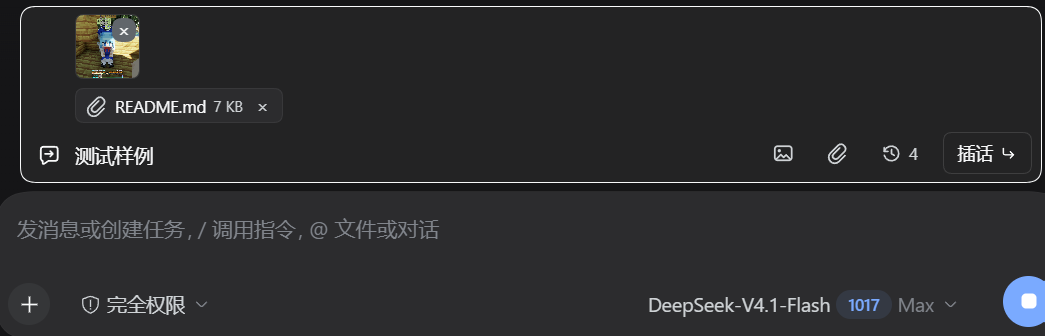
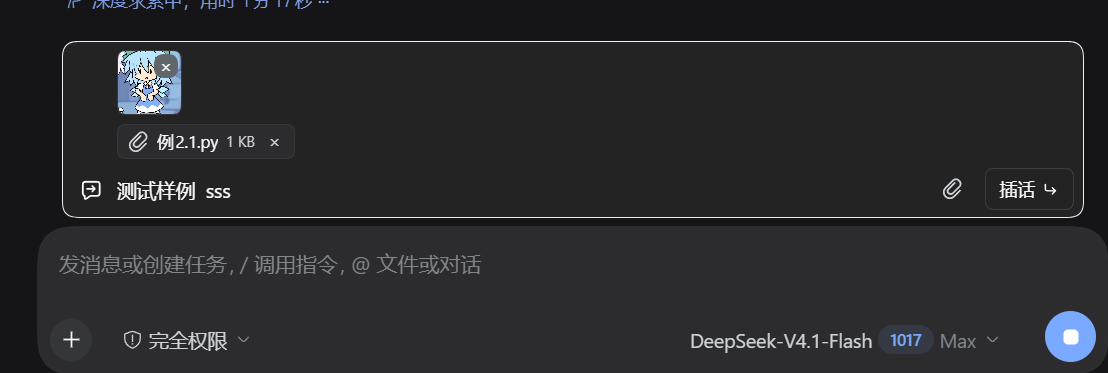
Release 0.2.2 with one attachment entry and new screenshot

diff --git a/client.js b/client.js
@@ -17,8 +17,6 @@ window.__ModuleLoader__.load({
       'status.sent': '已插入，下一步生效',
       'status.unavailable': '当前任务已结束或暂不可插话',
       'status.error': '插话失败：{message}',
-      'image.add': '添加图片',
-      'image.add.aria': '添加图片到插话',
       'image.remove': '移除图片',
       'image.unsupported': '仅支持 PNG、JPEG、WebP、GIF 图片',
       'image.invalid': '图片格式不支持或文件已损坏',
@@ -30,8 +28,8 @@ window.__ModuleLoader__.load({
       'image.modelUnsupported': '当前模型不支持图片输入，请换用支持图片的模型',
       'image.sendFailed': '图片发送失败：{reason}',
       'image.readFailed': '图片读取失败：{message}',
-      'file.add': '添加文件',
-      'file.add.aria': '添加文件附件',
+      'file.add': '添加图片或文件',
+      'file.add.aria': '添加图片或文件附件',
       'file.uploading': '上传中',
       'file.uploadingPercent': '上传中 {percent}%',
       'file.failed': '上传失败：{message}',
@@ -80,8 +78,6 @@ window.__ModuleLoader__.load({
       'status.sent': 'Inserted — applies at the next step',
       'status.unavailable': 'The task is no longer running or cannot accept steering',
       'status.error': 'Steering failed: {message}',
-      'image.add': 'Add images',
-      'image.add.aria': 'Add images to the steering message',
       'image.remove': 'Remove image',
       'image.unsupported': 'Only PNG, JPEG, WebP, and GIF images are supported',
       'image.invalid': 'The image format is unsupported or the file is damaged',
@@ -93,8 +89,8 @@ window.__ModuleLoader__.load({
       'image.modelUnsupported': 'The current model does not accept image input; switch to a vision-capable model',
       'image.sendFailed': 'Image send failed: {reason}',
       'image.readFailed': 'Image read failed: {message}',
-      'file.add': 'Add files',
-      'file.add.aria': 'Add file attachments',
+      'file.add': 'Add images or files',
+      'file.add.aria': 'Add images or files to the steering message',
       'file.uploading': 'Uploading',
       'file.uploadingPercent': 'Uploading {percent}%',
       'file.failed': 'Upload failed: {message}',
@@ -590,35 +586,7 @@ window.__ModuleLoader__.load({
       }));
     }
 
-    /** Picture frame for the attach button. */
-    function ImageIcon() {
-      return h('svg', {
-        viewBox: '0 0 16 16',
-        width: 15,
-        height: 15,
-        fill: 'none',
-        'aria-hidden': true,
-      },
-      h('rect', {
-        x: 2,
-        y: 3,
-        width: 12,
-        height: 10,
-        rx: 2,
-        stroke: 'currentColor',
-        strokeWidth: 1.25,
-      }),
-      h('circle', { cx: 5.2, cy: 6.2, r: 1.15, fill: 'currentColor' }),
-      h('path', {
-        d: 'M3.2 12l3.1-3.1 2 2 1.7-1.7 2.8 2.8',
-        stroke: 'currentColor',
-        strokeWidth: 1.25,
-        strokeLinecap: 'round',
-        strokeLinejoin: 'round',
-      }));
-    }
-
-    /** Paperclip for the generic file attach button. */
+    /** Paperclip for the image/file attach button. */
     function FileIcon() {
       return h('svg', {
         viewBox: '0 0 16 16',
@@ -900,7 +868,6 @@ window.__ModuleLoader__.load({
         const [showHistory, setShowHistory] = React.useState(false);
         const [cancellingId, setCancellingId] = React.useState(null);
         const inputRef = React.useRef(null);
-        const fileInputRef = React.useRef(null);
         const attachmentInputRef = React.useRef(null);
         const timerRef = React.useRef(0);
         const sendingRef = React.useRef(false);
@@ -1667,26 +1634,6 @@ window.__ModuleLoader__.load({
             onKeyDown,
             onPaste,
           }),
-          h('input', {
-            ref: fileInputRef,
-            type: 'file',
-            accept: supportedTypes.join(','),
-            multiple: true,
-            style: { display: 'none' },
-            onChange: (event) => {
-              const files = Array.from(event.target.files ?? []);
-              event.target.value = '';
-              void addFiles(files);
-            },
-          }),
-          h('button', {
-            type: 'button',
-            className: 'dsh-steer-note-attach',
-            'aria-label': t('image.add.aria'),
-            title: t('image.add'),
-            disabled: pending || images.length >= maxImages,
-            onClick: () => fileInputRef.current?.click(),
-          }, h(ImageIcon)),
           h('input', {
             ref: attachmentInputRef,
             type: 'file',

diff --git a/README.md b/README.md
@@ -34,7 +34,7 @@ Desktop 把 `--profile web` 换成 `--profile desktop`。安装后重启 DSH，H
 ## 使用
 
 - 任务运行时，输入框上方会出现插话栏；`Enter` 发送，`Shift+Enter` 换行。
-- 图片按钮选图片，回形针选任意文件，也可以直接粘贴/拖入。
+- 点回形针选图片或任意文件，也可以直接粘贴/拖入；图片会自动识别并预览。
 - 任务结束时还没发的内容会自动搬进主输入框；也可以点「放入输入框」。
 - 时钟按钮查看插话记录；未读取的插话可以取消。
 

diff --git a/CHANGELOG.md b/CHANGELOG.md
@@ -1,5 +1,10 @@
 # Changelog
 
+## 0.2.2 — 2026-10-20
+
+- UI: merge the image and file buttons into one paperclip; selected images are still detected and previewed automatically.
+- Docs: update the usage line for the single attachment entry.
+
 ## 0.2.1 — 2026-10-19
 
 - Docs: mark the package as published on npm, add the npm install command and badge.
